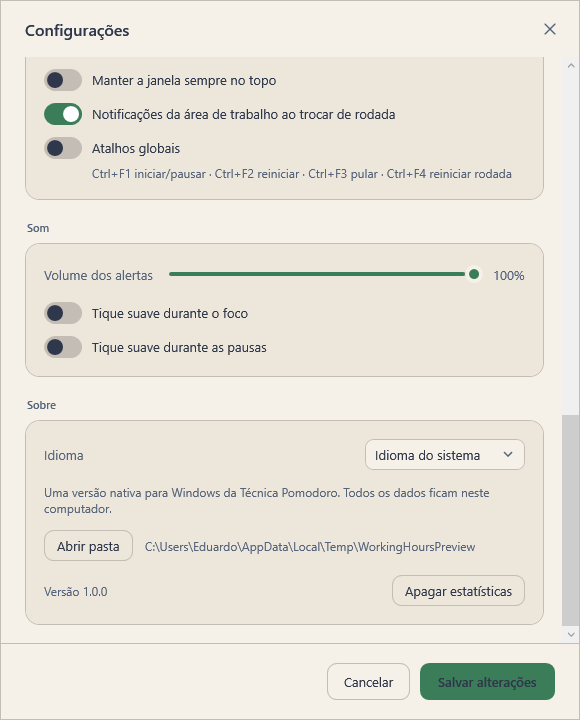
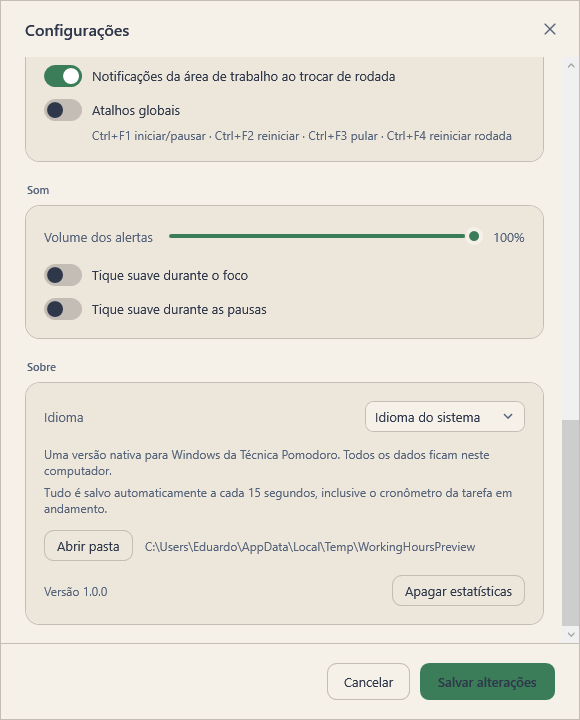
feat: adiciona salvamento automatico periodico
- servico central grava estado a cada 15 segundos
- cronometro da tarefa ativa faz checkpoint sem parar
- posicao e tamanho da janela salvos periodicamente
- flush ao minimizar, entrar no modo mini, fechar e no logoff
- indicacao nas configuracoes e README atualizados

diff --git a/src/WorkingHours/Views/SettingsWindow.xaml b/src/WorkingHours/Views/SettingsWindow.xaml
@@ -198,6 +198,8 @@
                                           SelectedValue="{Binding Language}" />
                             </Grid>
                             <TextBlock Text="{DynamicResource L.AboutText}" Style="{StaticResource MutedText}"
+                                       TextWrapping="Wrap" Margin="0,0,0,6" />
+                            <TextBlock Text="{DynamicResource L.AutoSaveHint}" Style="{StaticResource MutedText}"
                                        TextWrapping="Wrap" Margin="0,0,0,14" />
                             <Grid>
                                 <Grid.ColumnDefinitions>

diff --git a/src/WorkingHours/Views/MainWindow.xaml.cs b/src/WorkingHours/Views/MainWindow.xaml.cs
@@ -33,6 +33,7 @@ public partial class MainWindow : Window
         _vm = services.Main;
         DataContext = _vm;
         TodoSidebarView.DataContext = _vm.Todos;
+        _services.AutoSave.Register("window-bounds", PersistWindowBounds);
 
         RestoreWindowBounds();
         TaskbarItemInfo = new TaskbarItemInfo { ProgressState = TaskbarItemProgressState.None };
@@ -89,6 +90,7 @@ public partial class MainWindow : Window
         mini.Closed += OnMiniClosed;
 
         _miniWindow = mini;
+        _services.AutoSave.Flush();
         Hide();
         mini.Show();
     }
@@ -370,7 +372,10 @@ public partial class MainWindow : Window
 
         var settings = _services.Settings.Current;
         if (settings.MinimizeToTray && settings.TrayIconEnabled)
+        {
+            _services.AutoSave.Flush();
             Hide();
+        }
     }
 
     private void OnWindowSizeChanged(object sender, SizeChangedEventArgs e)
@@ -405,6 +410,7 @@ public partial class MainWindow : Window
         _services.Themes.ThemeApplied -= OnThemeApplied;
         _services.Settings.Changed -= OnSettingsChanged;
         _services.Tray.MiniRequested -= OnMiniRequested;
+        _services.AutoSave.Unregister("window-bounds");
         CloseMini(suppressRestore: true);
         _hotkeys.Dispose();
     }
@@ -432,6 +438,16 @@ public partial class MainWindow : Window
                 Top = y;
             }
         }
+    }
+
+    /// <summary>Periodic auto-save hook: persists the current normal window bounds.</summary>
+    public void PersistWindowBounds()
+    {
+        if (!IsLoaded || WindowState != WindowState.Normal)
+            return;
+
+        SaveWindowBounds();
+        _services.Settings.SaveWithoutNotify();
     }
 
     private void SaveWindowBounds(bool subtractSidebar = false)

diff --git a/src/WorkingHours/Services/AutoSaveService.cs b/src/WorkingHours/Services/AutoSaveService.cs
@@ -1,0 +1,63 @@
+using System.Windows.Threading;
+
+namespace WorkingHours.Services;
+
+/// <summary>
+/// Periodically flushes state that would otherwise only be written on exit
+/// (window geometry and the running task stopwatch). Each participant registers
+/// its own save action so this stays independent of the UI.
+/// </summary>
+public sealed class AutoSaveService : IDisposable
+{
+    private readonly DispatcherTimer _timer;
+    private readonly List<(string Key, Action Save)> _actions = new();
+
+    public AutoSaveService(TimeSpan? interval = null)
+    {
+        _timer = new DispatcherTimer(DispatcherPriority.Background)
+        {
+            Interval = interval ?? TimeSpan.FromSeconds(15)
+        };
+        _timer.Tick += (_, _) => Flush();
+    }
+
+    public DateTime? LastSavedAt { get; private set; }
+
+    public event EventHandler? Saved;
+
+    public void Register(string key, Action save)
+    {
+        Unregister(key);
+        _actions.Add((key, save));
+    }
+
+    public void Unregister(string key)
+    {
+        _actions.RemoveAll(a => a.Key == key);
+    }
+
+    public void Start() => _timer.Start();
+
+    public void Flush()
+    {
+        foreach (var (key, save) in _actions.ToList())
+        {
+            try
+            {
+                save();
+            }
+            catch (Exception ex)
+            {
+                Diagnostics.Log(ex, $"AutoSave:{key}");
+            }
+        }
+
+        LastSavedAt = DateTime.Now;
+        Saved?.Invoke(this, EventArgs.Empty);
+    }
+
+    public void Dispose()
+    {
+        _timer.Stop();
+    }
+}

diff --git a/src/WorkingHours/App.xaml.cs b/src/WorkingHours/App.xaml.cs
@@ -77,9 +77,11 @@ public partial class App : Application
 
             var todos = new TodoStore(paths);
             var main = new MainViewModel(settings, stats, audio, tray, notifications, todos, loc);
+            var autoSave = new AutoSaveService();
+            autoSave.Register("tasks", main.Todos.CheckpointTracking);
 
             _services = new AppServices(paths, settings, stats, themes, audio, tray,
-                notifications, loc, main);
+                notifications, loc, autoSave, main);
 
             if (previewMode)
             {
@@ -91,6 +93,7 @@ public partial class App : Application
             _window = new MainWindow(_services);
             MainWindow = _window;
             _window.Show();
+            autoSave.Start();
 
             settings.Changed += OnSettingsChanged;
             tray.ShowRequested += (_, _) => _window?.ShowFromTray();
@@ -189,8 +192,16 @@ public partial class App : Application
         Shutdown();
     }
 
+    protected override void OnSessionEnding(SessionEndingCancelEventArgs e)
+    {
+        _services?.AutoSave.Flush();
+        _services?.Main.Todos.StopAllTracking();
+        base.OnSessionEnding(e);
+    }
+
     protected override void OnExit(ExitEventArgs e)
     {
+        _services?.AutoSave.Flush();
         _showListenerCancellation?.Cancel();
         _showListenerCancellation?.Dispose();
         _showEvent?.Dispose();

diff --git a/src/WorkingHours/Services/AppServices.cs b/src/WorkingHours/Services/AppServices.cs
@@ -15,6 +15,7 @@ public sealed class AppServices : IDisposable
         TrayService tray,
         NotificationService notifications,
         LocalizationService loc,
+        AutoSaveService autoSave,
         MainViewModel main)
     {
         Paths = paths;
@@ -25,6 +26,7 @@ public sealed class AppServices : IDisposable
         Tray = tray;
         Notifications = notifications;
         Loc = loc;
+        AutoSave = autoSave;
         Main = main;
     }
 
@@ -36,11 +38,14 @@ public sealed class AppServices : IDisposable
     public TrayService Tray { get; }
     public NotificationService Notifications { get; }
     public LocalizationService Loc { get; }
+    public AutoSaveService AutoSave { get; }
     public MainViewModel Main { get; }
 
     public void Dispose()
     {
+        AutoSave.Flush();
         Main.Todos.StopAllTracking();
+        AutoSave.Dispose();
         Tray.Dispose();
         Audio.Dispose();
         Themes.Dispose();

diff --git a/src/WorkingHours/Services/LocalizationService.cs b/src/WorkingHours/Services/LocalizationService.cs
@@ -109,6 +109,7 @@ public sealed class LocalizationService
         ["OpenDataFolder"] = "Open folder",
         ["Version"] = "Version {0}",
         ["AboutText"] = "A native Windows take on the Pomodoro Technique. All data stays on this computer.",
+        ["AutoSaveHint"] = "Everything is saved automatically every 15 seconds, including the running task stopwatch.",
         ["License"] = "MIT License · inspired by Pomotroid",
 
         ["Today"] = "Today",
@@ -231,6 +232,7 @@ public sealed class LocalizationService
         ["OpenDataFolder"] = "Abrir pasta",
         ["Version"] = "Versão {0}",
         ["AboutText"] = "Uma versão nativa para Windows da Técnica Pomodoro. Todos os dados ficam neste computador.",
+        ["AutoSaveHint"] = "Tudo é salvo automaticamente a cada 15 segundos, inclusive o cronômetro da tarefa em andamento.",
         ["License"] = "Licença MIT · inspirado no Pomotroid",
 
         ["Today"] = "Hoje",

diff --git a/src/WorkingHours/ViewModels/TodoViewModel.cs b/src/WorkingHours/ViewModels/TodoViewModel.cs
@@ -261,6 +261,25 @@ public sealed class TodoViewModel : ObservableObject
         }
     }
 
+    /// <summary>
+    /// Folds the current interval into the task and keeps the stopwatch running.
+    /// Used by the periodic auto-save so a crash loses at most one interval.
+    /// </summary>
+    public void CheckpointTracking()
+    {
+        if (_trackedItem?.Item.TimerStartedAt is not { } started)
+            return;
+
+        var elapsed = (int)Math.Max(0, (DateTime.Now - started).TotalSeconds);
+        if (elapsed <= 0)
+            return;
+
+        _trackedItem.Item.TimeSpentSeconds += elapsed;
+        _trackedItem.Item.TimerStartedAt = DateTime.Now;
+        _store.Update(_trackedItem.Item);
+        _trackedItem.RefreshTime();
+    }
+
     /// <summary>Called on application exit so the running interval is not lost.</summary>
     public void StopAllTracking()
     {

diff --git a/README.md b/README.md
@@ -23,6 +23,7 @@ Uma releitura nativa para Windows do [Pomotroid](https://github.com/Splode/pomot
 - **Modo compacto** automático quando a janela fica pequena.
 - **Mini relógio flutuante**, sempre sobre todas as janelas, com controles, arraste e posição lembrada.
 - **Lista de tarefas** em uma sidebar que desliza para fora à esquerda, com adição rápida, conclusão, exclusão, **reordenação por arraste**, persistência e **cronômetro por tarefa**.
+- **Salvamento automático** a cada 15 segundos, inclusive do cronômetro de tarefa em andamento, ao fechar e no logoff do Windows.
 - **Sempre no topo**, dados 100% locais e nenhuma telemetria.
 
 | Tema escuro | Modo compacto |
@@ -162,9 +163,11 @@ Tudo fica em `%APPDATA%\WorkingHours`:
 ```
 settings.json     preferências
 sessions.json     histórico de sessões concluídas
-todos.json        lista de tarefas
+todos.json        lista de tarefas e tempos acumulados
 themes\           seus temas (.json)
 error.log         log de falhas inesperadas
+
+As tarefas, o cronômetro em andamento, as preferências e a posição/tamanho da janela são salvos automaticamente a cada **15 segundos**, além de serem gravados ao fechar, minimizar para a bandeja, entrar no modo mini e durante o logoff/desligamento do Windows.
 ```
 
 Para criar um tema, salve um arquivo em `%APPDATA%\WorkingHours\themes` usando o mesmo formato do Pomotroid:
